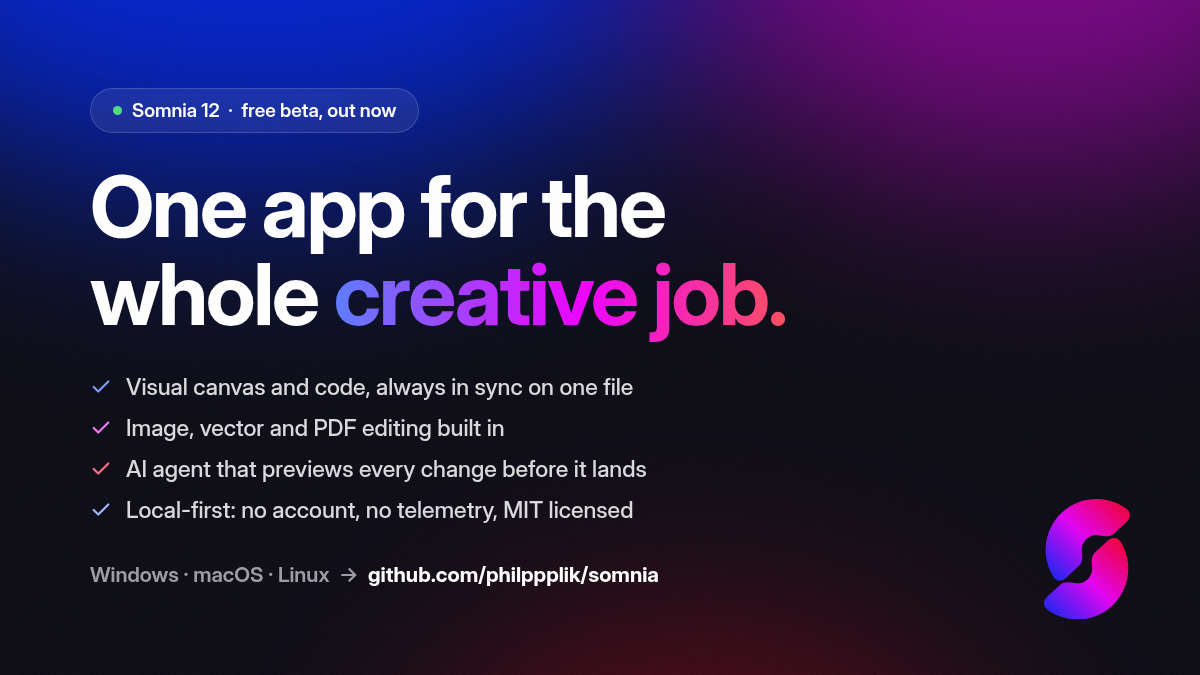
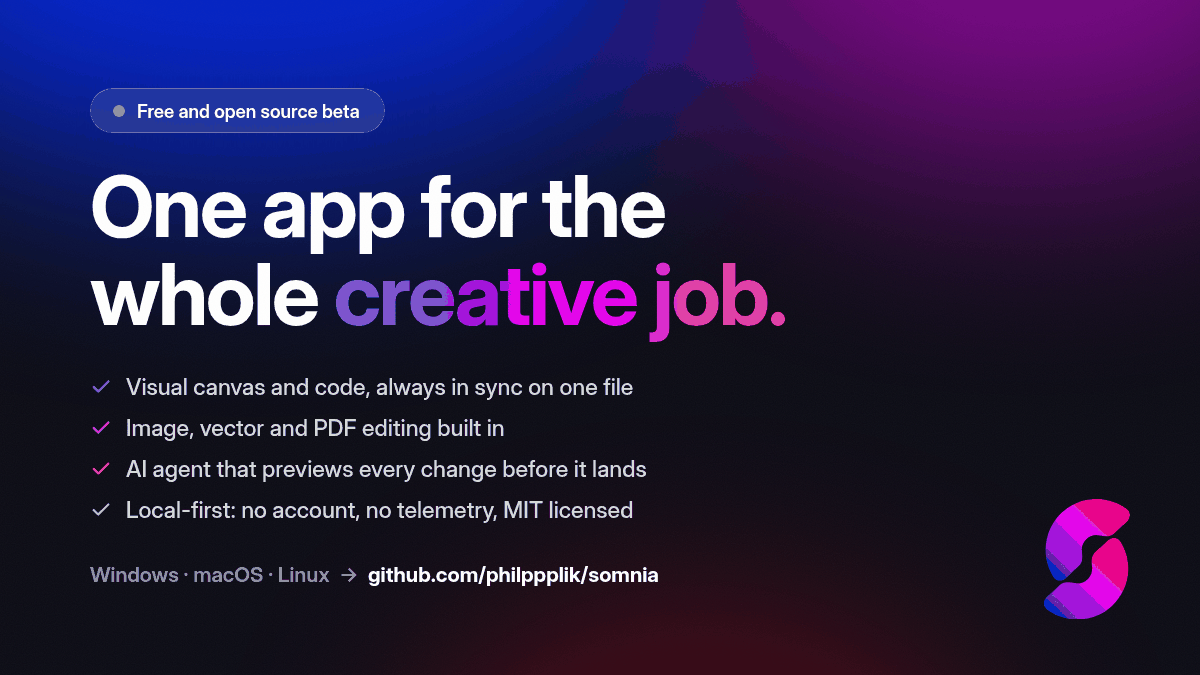
Update privacy text, add Impressum and neutral social card
Privacy and Datenschutz now cover the optional AI panel (OpenRouter, OpenAI, Claude, Ollama), collaboration, API key storage and the website's release request. Impressum added with a footer link. The social card no longer carries a version or 'out now'.

diff --git a/datenschutz/index.html b/datenschutz/index.html
@@ -22,7 +22,7 @@
 <meta property="og:image" content="https://somnia.philipp-paulik.de/assets/og/launch-card.png">
 <meta property="og:image:width" content="1200">
 <meta property="og:image:height" content="675">
-<meta property="og:image:alt" content="Somnia 12, free beta. One app for the whole creative job.">
+<meta property="og:image:alt" content="Somnia, free and open source beta. One app for the whole creative job.">
 <meta name="twitter:card" content="summary_large_image">
 <meta name="twitter:title" content="Datenschutzerklärung - Somnia">
 <meta name="twitter:description" content="Was Somnia mit deinen Daten macht.">
@@ -50,45 +50,60 @@
 <a class="btn btn-sm btn-star" href="https://github.com/philppplik/somnia" rel="noopener">Star on GitHub</a>
 </div>
 </header>
-<main id="main"><div class="wrap prose-page"><div class="prose"><p class="crumbs"><a href="../">Somnia</a> / Datenschutzerklärung</p><h1>Datenschutzerklärung.</h1><p class="lead">Was Somnia mit deinen Daten macht, in klaren Worten. Kurz: Sie bleiben auf deinem Rechner.</p>
-<p class="note"><strong>Kurz gesagt.</strong> Somnia arbeitet mit Dateien auf deinem eigenen Rechner. Es gibt kein Konto, keine Analyse und kein Tracking, und der Entwickler erhält weder deine Dateien noch Daten darüber, wie du die App nutzt. Die einzige Netzwerkanfrage der App ist eine optionale Prüfung auf neue Versionen bei GitHub.</p>
-<p>Stand: 5. Oktober 2026.</p>
+<main id="main"><div class="wrap prose-page"><div class="prose"><p class="crumbs"><a href="../">Somnia</a> / Datenschutzerklärung</p><h1>Datenschutzerklärung.</h1><p class="lead">Was Somnia mit deinen Daten macht, in einfachen Worten. Kurz: Sie bleiben auf deinem Computer.</p>
+<p><strong>Kurzfassung.</strong> Somnia arbeitet mit Dateien auf deinem eigenen Computer. Es gibt kein Konto, keine Analyse und kein Tracking, und der Entwickler erhält weder deine Dateien noch Daten darüber, wie du die App nutzt. Die App stellt nur Netzwerkanfragen, die du selbst veranlasst: die Update-Prüfung, einen KI-Anbieter, den du einschaltest, und Kollaborations-Hosts, die du einrichtest.</p>
+<p>Stand: 17. Oktober 2026. Somnia ist in der Beta. Diese Seite beschreibt die App so, wie sie heute gebaut ist, und wird angepasst, wenn sich die App ändert.</p>
 
 <h2>Verantwortlicher</h2>
 <p>Somnia wird von Philipp Paulik entwickelt (der "Entwickler"). Kontakt für Datenschutzfragen: <a href="mailto:philipp.l.paulik@gmail.com">philipp.l.paulik@gmail.com</a>.</p>
 
-<h2>Was die Somnia-Desktop-App mit deinen Daten macht</h2>
-<h3>Deine Projektdateien bleiben auf deinem Gerät</h3>
-<p>Somnia öffnet einen Ordner oder eine Datei, die du auswählst, und speichert Änderungen an derselben Stelle auf deiner Festplatte. HTML, CSS, JavaScript und Bilder werden nirgendwohin hochgeladen. Der Entwickler betreibt keinen Server, der sie empfangen würde.</p>
-<h3>Lokal von der App gespeicherte Daten</h3>
+<h2>Deine Dateien bleiben auf deinem Gerät</h2>
+<p>Somnia öffnet einen Ordner oder eine Datei, die du auswählst, und speichert Änderungen an derselben Stelle auf deiner Festplatte. Deine Dateien werden nicht an den Entwickler hochgeladen. Der Entwickler betreibt keinen Server, der sie empfängt.</p>
+
+<h2>Lokal gespeicherte Daten</h2>
+<p><strong>Wiederherstellungs-Schnappschüsse.</strong> Beim Bearbeiten hält die App ungespeicherte Änderungen in einem lokalen Wiederherstellungsordner im App-Datenordner deines Benutzerprofils, damit Arbeit nach einem Absturz wiederhergestellt werden kann. Nach dem Speichern wird der Schnappschuss entfernt.</p>
+<p><strong>Einstellungen und gespeicherte Elemente.</strong> Layout, Design, Tastenkürzel, deine Komponentenbibliothek und deine Erweiterungsauswahl liegen im lokalen Speicher der App auf deinem Gerät. Wenn du das KI-Panel nutzt, werden auch der gewählte Anbieter, der Modellname, deine eigenen Prompts und der Nachweis deiner Cloud-Einwilligung (Version und Zeitpunkt) auf deinem Gerät gespeichert.</p>
+<p><strong>API-Schlüssel.</strong> Wenn du einen API-Schlüssel für einen KI-Anbieter hinzufügst, speichert ihn die Desktop-App im Anmeldedatenspeicher deines Betriebssystems, nicht in einer Klartext-Einstellungsdatei.</p>
+<p>Nichts davon wird an den Entwickler gesendet. Zum Entfernen lösche deine Projektordner und deinstalliere die App. Die Deinstallation entfernt die Programmdateien. Den lokalen App-Datenordner kannst du von Hand löschen, wenn du auch Schnappschüsse und Einstellungen entfernen möchtest.</p>
+
+<h2>Keine Konten, keine Analyse, kein Tracking</h2>
+<p>Somnia hat keine Anmeldung, keine Telemetrie, keine Absturzberichte, keine Werbung und keine Analyse durch Dritte. Der Entwickler erhebt über die App keine personenbezogenen Daten über dich.</p>
+
+<h2>Update-Prüfung</h2>
+<p>Beim Start kann die App bei GitHub nachfragen, ob eine neuere Version existiert, indem sie die öffentliche Release-Liste von github.com/philppplik/somnia über api.github.com abruft. Die Anfrage enthält kein Konto, keine Projektdaten und keine Kennung der App. Wie bei jeder Webanfrage erhält GitHub deine IP-Adresse und übliche technische Anfragedaten und verarbeitet sie nach der <a href="https://docs.github.com/de/site-policy/privacy-policies/github-general-privacy-statement" rel="noopener">GitHub-Datenschutzerklärung</a>. Du kannst diese Prüfung in den Einstellungen ausschalten. Wenn du ein Update installierst, lädt die App es auf dieselbe Weise von GitHub herunter.</p>
+<p>Wenn du Somnia aus dem Microsoft Store installierst, übernimmt der Microsoft Store die App-Updates und seine eigene Datenerhebung nach der <a href="https://privacy.microsoft.com/de-de/privacystatement" rel="noopener">Microsoft-Datenschutzerklärung</a>. Der Entwickler erhält diese Daten nicht.</p>
+
+<h2>Somnia Agent und KI-Dienste (optional, Beta)</h2>
+<p>Das KI-Panel ist optional und noch in der Beta. Es nutzt künstliche Intelligenz, um Eingaben zu beantworten und Änderungen vorzuschlagen. KI kann Fehler machen. Prüfe erzeugte Inhalte und kontrolliere Änderungen, bevor du sie übernimmst oder veröffentlichst. KI-Antworten und vorgeschlagene Änderungen sind in der App gekennzeichnet.</p>
+<p>Du bringst deinen eigenen Anbieter mit. Das Panel kann sich mit OpenRouter, OpenAI, Claude (Anthropic) und Ollama verbinden. An keinen von ihnen wird etwas gesendet, bevor du einen einrichtest.</p>
+<p><strong>Cloud-Anbieter.</strong> Vor der ersten Cloud-Anfrage bittet Somnia dich um ausdrückliche Erlaubnis, deine Eingabe, den relevanten Gesprächskontext und ausgewählte Projektinhalte an den von dir gewählten Anbieter zu senden. Das gilt für OpenRouter, OpenAI und Claude sowie für jeden Ollama-Server, der nicht auf deinem eigenen Rechner läuft. OpenRouter kann deine Inhalte an eigene Modellanbieter weiterleiten. Die Verarbeitung kann außerhalb der EU stattfinden. Speicherdauer, Training, Löschung und Übermittlung unterscheiden sich je nach Dienst, Kontotyp und Einstellungen und liegen beim Anbieter, nicht bei Somnia. Ein ChatGPT- oder Claude-Abonnement bedeutet nicht, dass die Verarbeitung lokal bleibt. Lies die Datenschutzhinweise deines Anbieters:</p>
 <ul>
-<li><strong>Wiederherstellungs-Snapshots.</strong> Beim Bearbeiten legt die App ungespeicherte Änderungen in einem lokalen Wiederherstellungsordner (<code>recovery-v1</code>) im App-Datenordner deines Windows-Benutzerprofils ab, damit Arbeit nach einem Absturz wiederhergestellt werden kann. Ein Snapshot wird nach dem Speichern der Datei entfernt.</li>
-<li><strong>Einstellungen und gespeicherte Elemente.</strong> Layout, Theme, Tastenkürzel, deine Komponenten-Bibliothek und deine Erweiterungsauswahl liegen im lokalen Speicher der App auf deinem Gerät.</li>
+<li><a href="https://openai.com/policies/eu-privacy-policy/" rel="noopener">OpenAI</a></li>
+<li><a href="https://privacy.claude.com/en/" rel="noopener">Anthropic Privacy Center</a></li>
+<li><a href="https://openrouter.ai/privacy" rel="noopener">OpenRouter</a> und dessen <a href="https://openrouter.ai/docs/guides/privacy/data-collection" rel="noopener">Hinweise zur Datenerhebung</a></li>
 </ul>
-<p>Nichts davon wird an den Entwickler oder an andere gesendet. Zum Entfernen lösche deine Projektordner und deinstalliere die App. Die Deinstallation entfernt die Programmdateien; den lokalen App-Datenordner kannst du von Hand löschen, wenn du auch Wiederherstellungs-Snapshots und Einstellungen entfernen möchtest.</p>
+<p>Prüfe den Kontext vor dem Senden. Füge keine Passwörter, API-Schlüssel oder personenbezogenen Daten ein, die du nicht weitergeben darfst. Deine Einwilligung erlaubt dir nicht, Daten anderer Personen offenzulegen.</p>
+<p><strong>Einwilligung widerrufen.</strong> Du kannst die Cloud-Einwilligung in den Einstellungen unter KI-Datenschutz widerrufen. Der Widerruf blockiert neue Cloud-Anfragen und bricht laufende in Somnia ab. Er löscht keine Inhalte, die ein Anbieter bereits erhalten hat, und garantiert nicht, dass der Anbieter die Verarbeitung beendet. Wende dich dafür an den Anbieter. Du kannst den Editor ohne Cloud-KI weiter nutzen. Das Löschen eines gespeicherten Schlüssels in der App entfernt nur die Kopie von Somnia. Der Schlüssel wird dadurch beim Anbieter nicht widerrufen.</p>
+<p><strong>Lokale Verarbeitung.</strong> Du kannst Ollama auf deinem eigenen Gerät mit einem lokalen Modell nutzen. Somnia behandelt einen lokalen Ollama-Server nur dann als lokal, wenn er auf deinem Rechner läuft und lokale Modellgewichte meldet. Ein lokaler Server kann eigene Protokolleinstellungen haben.</p>
 
-<h3>Keine Konten, keine Analyse, kein Tracking</h3>
-<p>Somnia hat keine Anmeldung, keine Telemetrie, keine Absturzberichte, keine Werbung und keine Analyse durch Dritte. Die App erhebt keine personenbezogenen Daten über dich.</p>
+<h2>Zusammenarbeit</h2>
+<p>Die Echtzeit-Zusammenarbeit ist optional und beginnt nur, wenn du eine Sitzung startest oder ihr beitrittst. Sitzungen laufen über einen Host deiner Wahl: einen Host auf deinem eigenen Computer oder im lokalen Netzwerk oder ein Relay, das du selbst betreibst. Der Entwickler betreibt für dich keinen Kollaborationsserver. Die Inhalte werden von den Apps Ende-zu-Ende verschlüsselt, und das Relay leitet verschlüsselte Daten weiter, ohne sie zu speichern. Der gewählte Host und die Personen, die du einlädst, sehen, was du in der Sitzung teilst. Deine IP-Adresse ist für den Host und die Teilnehmer sichtbar, wie bei jeder Netzwerkverbindung.</p>
 
-<h3>Die einzige Netzwerkanfrage: Update-Prüfung</h3>
-<p>Beim Start kann die App bei GitHub nachfragen, ob eine neuere Version existiert. Dafür ruft sie die öffentliche Release-Liste von <code>github.com/philppplik/somnia</code> über <code>api.github.com</code> ab. Die Anfrage enthält kein Konto, keine Projektdaten und keine Kennung aus der App. Wie bei jeder Webanfrage erhält GitHub deine IP-Adresse und übliche technische Anfragedaten und verarbeitet sie nach der <a href="https://docs.github.com/de/site-policy/privacy-policies/github-general-privacy-statement" rel="noopener">GitHub-Datenschutzerklärung</a>. Du kannst diese Prüfung in den Einstellungen ausschalten. Wenn du ein Update installierst, lädt die App es auf dieselbe Weise von GitHub herunter.</p>
-<p>Installierst du Somnia aus dem Microsoft Store, übernimmt der Microsoft Store die App-Updates und seine eigene Datenerhebung nach der <a href="https://privacy.microsoft.com/de-de/privacystatement" rel="noopener">Microsoft-Datenschutzerklärung</a>. Der Entwickler erhält diese Daten nicht.</p>
-
-<h3>Vorschau und Erweiterungen</h3>
-<p>Die Live-Vorschau läuft in einem isolierten Frame ohne Netzwerkzugriff. Skripte deines Projekts laufen darin erst, nachdem du das für ein Projekt erlaubt hast. Erweiterungen laufen lokal und können nach dem heutigen Stand der App nicht auf das Netzwerk zugreifen.</p>
+<h2>Vorschau und Erweiterungen</h2>
+<p>Die Live-Vorschau läuft in einem isolierten Frame ohne Netzwerkzugriff. Skripte aus deinem Projekt laufen darin nur, wenn du das für ein Projekt erlaubst. Erweiterungen laufen lokal in einem eingeschränkten Worker mit einem deklarierten Satz an Berechtigungen, und der Netzwerkzugriff wird ihnen nach bestem Bemühen entzogen. Das ist eine Schutzmaßnahme, keine Garantie.</p>
 
 <h2>Diese Website</h2>
-<p>Diese Seite (somnia.philipp-paulik.de) ist eine statische Seite auf GitHub Pages. Sie nutzt keine Cookies, keine Analyse und keine Skripte von Dritten. GitHub als Hoster kann technische Daten wie deine IP-Adresse in Server-Logs verarbeiten. Der Browser-Prototyp auf der Startseite läuft komplett in deinem Browser; Dateien, die du darin öffnest, werden nicht hochgeladen.</p>
+<p>Diese Seite (somnia.philipp-paulik.de) ist eine statische Seite auf GitHub Pages. Sie verwendet keine Cookies, keine Analyse und keine Skripte von Dritten. Der Download-Bereich ruft in deinem Browser die öffentliche Release-Liste von api.github.com ab, dabei erhält GitHub deine IP-Adresse wie oben beschrieben. GitHub kann als Hoster außerdem technische Daten wie deine IP-Adresse in Server-Logs verarbeiten.</p>
 
 <h2>Deine Rechte</h2>
-<p>Da der Entwickler über die App keine personenbezogenen Daten erhebt, gibt es auf seiner Seite normalerweise nichts zu beauskunften, zu berichtigen oder zu löschen. Wenn du in der EU bist und glaubst, dass der Entwickler Daten über dich hat, schreib an die Adresse oben. Du hast außerdem das Recht, dich bei deiner Datenschutz-Aufsichtsbehörde zu beschweren.</p>
+<p>Da der Entwickler über die App keine personenbezogenen Daten erhebt, gibt es bei ihm normalerweise nichts zur Auskunft, Berichtigung oder Löschung. Wenn du in der EU oder im Vereinigten Königreich bist und glaubst, dass der Entwickler Daten über dich hält, schreib an die Adresse oben, du erhältst eine Antwort. Du hast außerdem das Recht, dich bei deiner zuständigen Datenschutzaufsichtsbehörde zu beschweren. Für Daten, die ein KI-Anbieter, GitHub oder Microsoft verarbeitet, wende dich an das jeweilige Unternehmen.</p>
 
 <h2>Kinder</h2>
-<p>Somnia ist ein allgemeines Werkzeug für Webdesign und richtet sich nicht an Kinder. Es erhebt keine Daten von irgendjemandem.</p>
+<p>Somnia ist ein allgemeines kreatives Werkzeug und richtet sich nicht an Kinder. Der Entwickler erhebt darüber keine Daten von irgendjemandem.</p>
 
 <h2>Änderungen</h2>
-<p>Wenn die App Daten künftig anders behandelt, zum Beispiel durch eine optionale Online-Funktion, wird diese Seite vor dem Release aktualisiert und die Änderung hier aufgeführt. Die aktuelle Fassung findest du immer unter <a href="https://somnia.philipp-paulik.de/datenschutz/">somnia.philipp-paulik.de/datenschutz/</a>.</p>
-<p><a href="../privacy/">English version</a></p>
+<p>Wenn die App Daten künftig anders behandelt, wird diese Seite vor dem Release angepasst und die Änderung hier vermerkt. Die aktuelle Fassung findest du immer unter somnia.philipp-paulik.de/datenschutz/. Eine englische Fassung gibt es unter <a href="../privacy/">/privacy/</a>.</p>
+
 </div></div></main><footer class="site-footer">
 <div class="wrap">
 <div class="foot">
@@ -112,6 +127,7 @@
 <li><a href="https://github.com/philppplik/somnia/blob/main/LICENSE" rel="noopener">MIT license</a></li>
 <li><a href="../privacy/">Privacy policy</a></li>
 <li><a href="../datenschutz/">Datenschutzerkl&auml;rung</a></li>
+<li><a href="../impressum/">Impressum</a></li>
 <li><a href="https://github.com/philppplik/somnia/blob/main/SECURITY.md" rel="noopener">Security policy</a></li>
 </ul>
 </div>

diff --git a/privacy/index.html b/privacy/index.html
@@ -22,7 +22,7 @@
 <meta property="og:image" content="https://somnia.philipp-paulik.de/assets/og/launch-card.png">
 <meta property="og:image:width" content="1200">
 <meta property="og:image:height" content="675">
-<meta property="og:image:alt" content="Somnia 12, free beta. One app for the whole creative job.">
+<meta property="og:image:alt" content="Somnia, free and open source beta. One app for the whole creative job.">
 <meta name="twitter:card" content="summary_large_image">
 <meta name="twitter:title" content="Privacy policy - Somnia">
 <meta name="twitter:description" content="What Somnia does with your data, in plain words.">
@@ -51,44 +51,59 @@
 </div>
 </header>
 <main id="main"><div class="wrap prose-page"><div class="prose"><p class="crumbs"><a href="../">Somnia</a> / Privacy policy</p><h1>Privacy policy.</h1><p class="lead">What Somnia does with your data, in plain words. Short answer: it stays on your computer.</p>
-<p class="note"><strong>Short version.</strong> Somnia works on files on your own computer. It has no account, no analytics and no tracking, and the developer does not receive your files or any data about how you use the app. The only network request the app makes is an optional check for new versions on GitHub.</p>
-<p>Last updated: October 5, 2026.</p>
+<p><strong>Short version.</strong> Somnia works on files on your own computer. It has no account, no analytics and no tracking, and the developer does not receive your files or any data about how you use the app. The app makes network requests only for things you choose: the update check, an AI provider you turn on, and collaboration hosts you set up.</p>
+<p>Last updated: October 17, 2026. Somnia is in beta. This page describes the app as it is built today, and it will change when the app does.</p>
 
 <h2>Who is responsible</h2>
 <p>Somnia is developed by Philipp Paulik (the "developer"). Contact for privacy questions: <a href="mailto:philipp.l.paulik@gmail.com">philipp.l.paulik@gmail.com</a>.</p>
 
-<h2>What the Somnia desktop app does with your data</h2>
-<h3>Your project files stay on your device</h3>
-<p>Somnia opens a folder or file that you choose and saves changes back to the same place on your disk. Your HTML, CSS, JavaScript and images are not uploaded anywhere. The developer has no server that receives them.</p>
-<h3>Data stored locally by the app</h3>
-<ul>
-<li><strong>Recovery snapshots.</strong> While you edit, the app keeps unsaved changes in a local recovery folder (<code>recovery-v1</code>) inside the app data folder of your Windows user profile, so work can be restored after a crash. A snapshot is removed after you save the file.</li>
-<li><strong>Settings and saved items.</strong> Layout, theme, keyboard shortcuts, your saved component library and your extension choices are kept in the app's local storage on your device.</li>
-</ul>
-<p>None of this is sent to the developer or to anyone else. To remove it, delete your project folders and uninstall the app. Uninstalling the app removes its program files; the local app data folder can be deleted by hand if you want to remove recovery snapshots and settings as well.</p>
+<h2>Your files stay on your device</h2>
+<p>Somnia opens a folder or file that you choose and saves changes back to the same place on your disk. Your files are not uploaded to the developer. The developer has no server that receives them.</p>
 
-<h3>No accounts, no analytics, no tracking</h3>
-<p>Somnia has no sign-in, no telemetry, no crash reporting, no advertising and no third-party analytics. The app does not collect personal data about you.</p>
+<h2>Data stored locally by the app</h2>
+<p><strong>Recovery snapshots.</strong> While you edit, the app keeps unsaved changes in a local recovery folder inside the app data folder of your user profile, so work can be restored after a crash. A snapshot is removed after you save the file.</p>
+<p><strong>Settings and saved items.</strong> Layout, theme, keyboard shortcuts, your saved component library and your extension choices are kept in the app's local storage on your device. If you use the AI panel, the chosen provider, the model name, your custom prompts and your cloud consent record (version and time) are stored on your device too.</p>
+<p><strong>API keys.</strong> If you add an API key for an AI provider, the desktop app stores it in your operating system's credential store, not in a plain settings file.</p>
+<p>None of this is sent to the developer. To remove it, delete your project folders and uninstall the app. Uninstalling removes the program files. The local app data folder can be deleted by hand if you also want to remove recovery snapshots and settings.</p>
 
-<h3>The only network request: update check</h3>
-<p>When the app starts, it can ask GitHub whether a newer release exists by requesting the public release list of <code>github.com/philppplik/somnia</code> from <code>api.github.com</code>. The request carries no account, no project data and no identifier from the app. As with any web request, GitHub receives your IP address and standard technical request data, and handles it under the <a href="https://docs.github.com/en/site-policy/privacy-policies/github-general-privacy-statement" rel="noopener">GitHub Privacy Statement</a>. You can turn this check off in Settings. If you choose to install an update, the app downloads it from GitHub the same way.</p>
+<h2>No accounts, no analytics, no tracking</h2>
+<p>Somnia has no sign-in, no telemetry, no crash reporting, no advertising and no third-party analytics. The developer does not collect personal data about you through the app.</p>
+
+<h2>Update check</h2>
+<p>When the app starts, it can ask GitHub whether a newer release exists by requesting the public release list of github.com/philppplik/somnia from api.github.com. The request carries no account, no project data and no identifier from the app. As with any web request, GitHub receives your IP address and standard technical request data, and handles it under the <a href="https://docs.github.com/en/site-policy/privacy-policies/github-general-privacy-statement" rel="noopener">GitHub Privacy Statement</a>. You can turn this check off in Settings. If you choose to install an update, the app downloads it from GitHub the same way.</p>
 <p>If you install Somnia from the Microsoft Store, the Microsoft Store handles app updates and its own data collection under the <a href="https://privacy.microsoft.com/privacystatement" rel="noopener">Microsoft Privacy Statement</a>. The developer does not receive that data.</p>
 
-<h3>Preview and extensions</h3>
-<p>The live preview runs in an isolated frame that has no network access. Scripts from your project run in it only after you allow that for a project. Extensions run locally and, as the app is built today, cannot reach the network.</p>
+<h2>Somnia Agent and AI services (optional, beta)</h2>
+<p>The AI panel is optional and still in beta. It uses artificial intelligence to answer prompts and propose changes. AI can make mistakes. Check generated content and review changes before you apply or publish them. AI responses and suggested changes are labelled in the app.</p>
+<p>You bring your own provider. The panel can connect to OpenRouter, OpenAI, Claude (Anthropic) and Ollama. Nothing is sent to any of them until you set one up.</p>
+<p><strong>Cloud providers.</strong> Before the first cloud request, Somnia asks you to explicitly allow sending your prompt, relevant conversation context and selected project content to the provider you choose. This applies to OpenRouter, OpenAI and Claude, and to any Ollama server that is not on your own machine. OpenRouter may route your content to its own model providers. Processing may take place outside the EU. Retention, training, deletion and transfer practices differ by service, account type and settings, and they are the provider's, not Somnia's. A ChatGPT or Claude subscription does not mean processing stays local. Read your provider's privacy information:</p>
+<ul>
+<li><a href="https://openai.com/policies/eu-privacy-policy/" rel="noopener">OpenAI</a></li>
+<li><a href="https://privacy.claude.com/en/" rel="noopener">Anthropic Privacy Center</a></li>
+<li><a href="https://openrouter.ai/privacy" rel="noopener">OpenRouter</a>, and its <a href="https://openrouter.ai/docs/guides/privacy/data-collection" rel="noopener">data collection guidance</a></li>
+</ul>
+<p>Review the context before sending. Do not include passwords, API keys or personal data you do not have permission to share. Your opt-in does not give you permission to disclose another person's data.</p>
+<p><strong>Withdrawing consent.</strong> You can withdraw cloud consent in Settings under AI privacy. Withdrawal blocks new cloud requests and cancels active ones in Somnia. It does not erase content a provider has already received, and it does not guarantee the provider stops processing it. Contact the provider for its processing. You can keep using the editor without cloud AI. Deleting a saved key in the app removes Somnia's copy only. It does not revoke the key at the provider.</p>
+<p><strong>Local processing.</strong> You can use Ollama on your own device with a local model. Somnia treats a local Ollama server as local only when it runs on your machine and reports local model weights. A local server may have its own logging settings.</p>
+
+<h2>Collaboration</h2>
+<p>Real-time collaboration is optional and starts only when you start or join a session. Sessions run through a host you choose: a host on your own computer or local network, or a relay you run yourself. The developer does not operate a collaboration server for you. Content is end-to-end encrypted by the apps, and the relay forwards encrypted data without storing it. The host you choose and the people you invite can see what you share in the session. Your IP address is visible to the host and to peers, as with any network connection.</p>
+
+<h2>Preview and extensions</h2>
+<p>The live preview runs in an isolated frame that has no network access. Scripts from your project run in it only after you allow that for a project. Extensions run locally in a restricted worker with a declared set of permissions, and network access is removed from them on a best-effort basis. That is a safeguard, not a guarantee.</p>
 
 <h2>This website</h2>
-<p>This site (somnia.philipp-paulik.de) is a static site hosted on GitHub Pages. It does not use cookies, analytics or third-party scripts. GitHub, as the host, may process technical data such as your IP address in server logs. The browser prototype on the home page runs entirely in your browser; the files you open in it are not uploaded.</p>
+<p>This site (somnia.philipp-paulik.de) is a static site hosted on GitHub Pages. It does not use cookies, analytics or third-party scripts. The download section requests the public release list from api.github.com in your browser, so GitHub receives your IP address as described above. GitHub, as the host, may also process technical data such as your IP address in server logs.</p>
 
 <h2>Your rights</h2>
-<p>Because the developer does not collect personal data through the app, there is normally nothing to access, correct or delete on his side. If you are in the EU or UK and think the developer holds data about you, write to the address above and you will get an answer. You also have the right to complain to your local data protection authority.</p>
+<p>Because the developer does not collect personal data through the app, there is normally nothing to access, correct or delete on his side. If you are in the EU or UK and think the developer holds data about you, write to the address above and you will get an answer. You also have the right to complain to your local data protection authority. For data that an AI provider, GitHub or Microsoft processes, contact that company.</p>
 
 <h2>Children</h2>
-<p>Somnia is a general-purpose web design tool and is not directed at children. It does not collect data from anyone.</p>
+<p>Somnia is a general-purpose creative tool and is not directed at children. The developer does not collect data from anyone through it.</p>
 
 <h2>Changes</h2>
-<p>If the app starts to handle data differently, for example by adding an optional online feature, this page will be updated before that release, and the change will be listed here. The current version of this page is always at <a href="https://somnia.philipp-paulik.de/privacy/">somnia.philipp-paulik.de/privacy/</a>.</p>
-<p><a href="../datenschutz/">Deutsche Fassung</a></p>
+<p>If the app starts to handle data differently, this page will be updated before that release and the change will be listed here. The current version is always at somnia.philipp-paulik.de/privacy/. A German version is at <a href="../datenschutz/">/datenschutz/</a>.</p>
+
 </div></div></main><footer class="site-footer">
 <div class="wrap">
 <div class="foot">
@@ -112,6 +127,7 @@
 <li><a href="https://github.com/philppplik/somnia/blob/main/LICENSE" rel="noopener">MIT license</a></li>
 <li><a href="../privacy/">Privacy policy</a></li>
 <li><a href="../datenschutz/">Datenschutzerkl&auml;rung</a></li>
+<li><a href="../impressum/">Impressum</a></li>
 <li><a href="https://github.com/philppplik/somnia/blob/main/SECURITY.md" rel="noopener">Security policy</a></li>
 </ul>
 </div>

diff --git a/impressum/index.html b/impressum/index.html
@@ -1,0 +1,96 @@
+<!DOCTYPE html>
+<html lang="de">
+<head>
+<meta charset="utf-8">
+<meta name="viewport" content="width=device-width, initial-scale=1">
+<title>Impressum - Somnia</title>
+<meta name="description" content="Angaben gemäß § 5 DDG.">
+<link rel="canonical" href="https://somnia.philipp-paulik.de/impressum/">
+<meta name="theme-color" content="#FAFAFD" media="(prefers-color-scheme: light)">
+<meta name="theme-color" content="#07070D" media="(prefers-color-scheme: dark)">
+<meta name="color-scheme" content="light dark">
+<link rel="icon" href="../favicon.svg" type="image/svg+xml">
+<link rel="icon" href="../assets/icons/favicon-32.png" sizes="32x32" type="image/png">
+<link rel="alternate icon" href="../favicon.ico" sizes="48x48">
+<link rel="apple-touch-icon" href="../assets/icons/apple-touch-icon.png">
+<link rel="manifest" href="../site.webmanifest">
+<meta property="og:type" content="website">
+<meta property="og:site_name" content="Somnia">
+<meta property="og:title" content="Impressum - Somnia">
+<meta property="og:description" content="Angaben gemäß § 5 DDG.">
+<meta property="og:url" content="https://somnia.philipp-paulik.de/impressum/">
+<meta property="og:image" content="https://somnia.philipp-paulik.de/assets/og/launch-card.png">
+<meta property="og:image:width" content="1200">
+<meta property="og:image:height" content="675">
+<meta property="og:image:alt" content="Somnia, free and open source beta. One app for the whole creative job.">
+<meta name="twitter:card" content="summary_large_image">
+<meta name="twitter:title" content="Impressum - Somnia">
+<meta name="twitter:description" content="Angaben gemäß § 5 DDG.">
+<meta name="twitter:image" content="https://somnia.philipp-paulik.de/assets/og/launch-card.png">
+<link rel="preload" href="../assets/fonts/InterDisplay-Bold.woff2" as="font" type="font/woff2" crossorigin>
+<link rel="preload" href="../assets/fonts/Inter-Regular.woff2" as="font" type="font/woff2" crossorigin>
+<link rel="stylesheet" href="../assets/css/site.css">
+<script>document.documentElement.className+=" js"</script>
+</head>
+<body>
+<a class="skip" href="#main">Skip to content</a>
+<svg xmlns="http://www.w3.org/2000/svg" style="display:none" aria-hidden="true"><symbol id="i-code" viewBox="0 0 24 24" fill="none" stroke="currentColor" stroke-width="2" stroke-linecap="round" stroke-linejoin="round"><path d="M17.5 16c.875-1.4 2.924-3.222 4.5-4c-1.576-.778-3.625-2.6-4.5-4m-11 8c-.875-1.4-2.924-3.222-4.5-4c1.576-.778 3.625-2.6 4.5-4M14 4l-4 16"/></symbol><symbol id="i-doc" viewBox="0 0 24 24" fill="none" stroke="currentColor" stroke-width="2" stroke-linecap="round" stroke-linejoin="round"><path d="M9.476 2H7.5a3 3 0 0 0-3 3v14a3 3 0 0 0 3 3h9a3 3 0 0 0 3-3v-7M9.476 2C10.856 2 12 3.119 12 4.5V7a2.5 2.5 0 0 0 2.5 2.5H17a2.5 2.5 0 0 1 2.5 2.5M9.476 2C13.576 2 19.5 7.956 19.5 12M8.833 17.5H15.5M8.833 14h4.445"/></symbol><symbol id="i-sheet" viewBox="0 0 24 24" fill="none" stroke="currentColor" stroke-width="2" stroke-linecap="round" stroke-linejoin="round"><path d="M9 3H5a2 2 0 0 0-2 2v4m6-6h10a2 2 0 0 1 2 2v4M9 3v18m0 0h10a2 2 0 0 0 2-2V9M9 21H5a2 2 0 0 1-2-2V9m0 0h18"/></symbol><symbol id="i-slides" viewBox="0 0 24 24" fill="none" stroke="currentColor" stroke-width="2" stroke-linecap="round" stroke-linejoin="round"><path d="M2 3h20"/><path d="M21 3v11a2 2 0 0 1-2 2H5a2 2 0 0 1-2-2V3"/><path d="m7 21 5-5 5 5"/></symbol><symbol id="i-sound" viewBox="0 0 24 24" fill="none" stroke="currentColor" stroke-width="2" stroke-linecap="round" stroke-linejoin="round"><path d="M2 8a2 2 0 0 1 2 2v5a2 2 0 1 0 4 0V4a2 2 0 1 1 4 0v16a2 2 0 1 0 4 0V10a2 2 0 1 1 4 0v4a2 2 0 0 0 2 2"/></symbol><symbol id="i-video" viewBox="0 0 24 24" fill="none" stroke="currentColor" stroke-width="2" stroke-linecap="round" stroke-linejoin="round"><path d="M17 3v4.225m0 0V12m0-4.775h4.5M17 12v4.718M17 12h5m-5 0H7m10 4.718V21m0-4.282h4.5M7 7.225H2.5m4.5 0V3m0 4.225V12m0 0H2m5 0v4.718m0 0H2.5m4.5 0V21M2 8a6 6 0 0 1 6-6h8a6 6 0 0 1 6 6v8a6 6 0 0 1-6 6H8a6 6 0 0 1-6-6z"/></symbol><symbol id="i-photos" viewBox="0 0 24 24" fill="none" stroke="currentColor" stroke-width="2" stroke-linecap="round" stroke-linejoin="round"><path d="M14.31 8c2.655 2.878 4.47 6.26 5.74 9.94M9.69 8a33.4 33.4 0 0 1 11.48 0M7.38 12a36.5 36.5 0 0 1 5.74-9.94M9.69 16c-2.736-2.814-4.58-6.214-5.74-9.94M14.311 16A33.5 33.5 0 0 1 2.83 16m13.791-4c-1.367 3.632-3.365 6.89-5.74 9.94M22 12a10 10 0 1 1-20.001 0A10 10 0 0 1 22 12"/></symbol><symbol id="i-vector" viewBox="0 0 24 24" fill="none" stroke="currentColor" stroke-width="2" stroke-linecap="round" stroke-linejoin="round"><path d="M8.622 20.655a2.88 2.88 0 0 1-2.038.845H2.5v-4.058c0-.764.304-1.497.844-2.038m5.278 5.25L19.15 10.122M8.622 20.654a10.97 10.97 0 0 0-5.278-5.25m0 0l10.539-10.55m5.267 5.268l1.509-1.507a2.885 2.885 0 0 0 0-4.08l-1.189-1.19a2.885 2.885 0 0 0-4.082.002l-1.505 1.507m5.267 5.268a10.98 10.98 0 0 0-5.267-5.268"/></symbol><symbol id="i-design" viewBox="0 0 24 24" fill="none" stroke="currentColor" stroke-width="2" stroke-linecap="round" stroke-linejoin="round"><rect width="18" height="7" x="3" y="3" rx="1"/><rect width="9" height="7" x="3" y="14" rx="1"/><rect width="5" height="7" x="16" y="14" rx="1"/></symbol><symbol id="i-sparkle" viewBox="0 0 24 24" fill="none" stroke="currentColor" stroke-width="2" stroke-linecap="round" stroke-linejoin="round"><path d="M15.078 22c1.248-5.166 2.762-6.777 6.922-8.182c-4.371-1.476-5.733-3.267-6.922-8.181c-1.25 5.165-2.765 6.775-6.925 8.18c4.367 1.475 5.737 3.279 6.924 8.183M5.846 11.091C6.414 8.402 7.514 7.19 9.69 6.546C7.514 5.902 6.414 4.689 5.847 2C5.302 4.572 4.274 5.872 2 6.544c2.177.645 3.277 1.858 3.846 4.547"/></symbol><symbol id="i-download" viewBox="0 0 24 24" fill="none" stroke="currentColor" stroke-width="2" stroke-linecap="round" stroke-linejoin="round"><path d="M3 17.005C3 19.203 4.58 22 7.375 22h9.25C19.422 22 21 19.2 21 17M12 2v15m6.5-6.094a12.56 12.56 0 0 0-5.276 4.334L12 17l-1.224-1.76A12.56 12.56 0 0 0 5.5 10.906"/></symbol><symbol id="i-check" viewBox="0 0 24 24" fill="none" stroke="currentColor" stroke-width="2" stroke-linecap="round" stroke-linejoin="round"><path d="M21 6c-5.097 2.22-9.297 6.137-11.907 11.108L8.625 18l-.485-.862A9.35 9.35 0 0 0 3 12.858"/></symbol></svg>
+<header class="site-header">
+<div class="wrap bar">
+<a class="brand" href="../" aria-label="Somnia, home"><svg class="" viewBox="0 0 287 402" fill="none" aria-hidden="true" focusable="false"><defs><linearGradient id="gm1" x1="20" y1="390" x2="270" y2="10" gradientUnits="userSpaceOnUse"><stop stop-color="#002AFF"/><stop offset=".52" stop-color="#EE00FF"/><stop offset="1" stop-color="#FF001E"/></linearGradient></defs><path d="M9.41951 327.164C-2.74004 338.418 -3.60151 357.658 9.61812 367.646C37.0692 388.386 70.3983 400.432 105.25 401.78C150.171 403.516 193.941 387.337 226.933 356.801C259.925 326.265 279.435 283.874 281.171 238.954C282.518 204.102 273.081 169.942 254.522 140.972C245.585 127.021 226.335 126.394 214.176 137.649L169.73 178.786C157.571 190.04 158.091 209.46 160.3 225.881C160.673 228.651 160.81 231.466 160.7 234.297C160.199 247.266 154.566 259.506 145.04 268.322C135.515 277.139 122.877 281.81 109.907 281.309C107.076 281.199 104.28 280.845 101.547 280.26C85.3463 276.789 66.0244 274.772 53.8649 286.027L9.41951 327.164Z" fill="url(#gm1)"/><path d="M277.27 74.7428C289.429 63.4883 290.291 44.2481 277.071 34.2602C249.62 13.5199 216.291 1.47393 181.439 0.126645C136.518 -1.60988 92.7478 14.5694 59.7562 45.1051C26.7646 75.6409 7.25449 118.032 5.51796 162.953C4.17067 197.804 13.6077 231.964 32.1669 260.934C41.1044 274.885 60.3537 275.512 72.5133 264.258L116.959 223.121C129.118 211.866 128.599 192.446 126.389 176.026C126.017 173.255 125.88 170.44 125.989 167.61C126.49 154.64 132.123 142.401 141.649 133.584C151.174 124.768 163.812 120.096 176.782 120.598C179.613 120.707 182.409 121.061 185.142 121.647C201.343 125.117 220.665 127.134 232.824 115.88L277.27 74.7428Z" fill="url(#gm1)"/></svg><span>Somnia</span></a>
+<button class="menu-btn" id="menu-btn" aria-expanded="false" aria-controls="site-nav">Menu</button>
+<nav class="nav" id="site-nav" aria-label="Main">
+<ul>
+<li><a href="../#studios">Studios</a></li>
+<li><a href="../#extensions">Extensions</a></li>
+<li><a href="../#docs">Docs</a></li>
+<li><a href="../#roadmap">Roadmap</a></li>
+</ul>
+</nav>
+<a class="btn btn-sm btn-star" href="https://github.com/philppplik/somnia" rel="noopener">Star on GitHub</a>
+</div>
+</header>
+<main id="main"><div class="wrap prose-page"><div class="prose"><p class="crumbs"><a href="../">Somnia</a> / Impressum</p><h1>Impressum.</h1><p class="lead">Angaben gemäß § 5 Digitale-Dienste-Gesetz (DDG).</p>
+<h2>Anbieter</h2>
+<p>Philipp Paulik<br>Mozartstraße 1<br>53819 Neunkirchen-Seelscheid<br>Deutschland</p>
+<h2>Kontakt</h2>
+<p>E-Mail: <a href="mailto:philipp.l.paulik@gmail.com">philipp.l.paulik@gmail.com</a></p>
+<h2>Urheberrecht</h2>
+<p>Die vom Betreiber dieser Seite erstellten Inhalte und Werke unterliegen dem deutschen Urheberrecht. Somnia selbst steht unter der MIT-Lizenz, den Lizenztext findest du im <a href="https://github.com/philppplik/somnia" rel="noopener">Repository auf GitHub</a>. Beiträge Dritter sind als solche gekennzeichnet.</p>
+<h2>Datenschutz</h2>
+<p>Informationen zum Datenschutz findest du in der <a href="../datenschutz/">Datenschutzerklärung</a>.</p>
+
+</div></div></main><footer class="site-footer">
+<div class="wrap">
+<div class="foot">
+<div>
+<a class="brand" href="../" aria-label="Somnia, home"><svg class="" viewBox="0 0 287 402" fill="none" aria-hidden="true" focusable="false"><defs><linearGradient id="gm2" x1="20" y1="390" x2="270" y2="10" gradientUnits="userSpaceOnUse"><stop stop-color="#002AFF"/><stop offset=".52" stop-color="#EE00FF"/><stop offset="1" stop-color="#FF001E"/></linearGradient></defs><path d="M9.41951 327.164C-2.74004 338.418 -3.60151 357.658 9.61812 367.646C37.0692 388.386 70.3983 400.432 105.25 401.78C150.171 403.516 193.941 387.337 226.933 356.801C259.925 326.265 279.435 283.874 281.171 238.954C282.518 204.102 273.081 169.942 254.522 140.972C245.585 127.021 226.335 126.394 214.176 137.649L169.73 178.786C157.571 190.04 158.091 209.46 160.3 225.881C160.673 228.651 160.81 231.466 160.7 234.297C160.199 247.266 154.566 259.506 145.04 268.322C135.515 277.139 122.877 281.81 109.907 281.309C107.076 281.199 104.28 280.845 101.547 280.26C85.3463 276.789 66.0244 274.772 53.8649 286.027L9.41951 327.164Z" fill="url(#gm2)"/><path d="M277.27 74.7428C289.429 63.4883 290.291 44.2481 277.071 34.2602C249.62 13.5199 216.291 1.47393 181.439 0.126645C136.518 -1.60988 92.7478 14.5694 59.7562 45.1051C26.7646 75.6409 7.25449 118.032 5.51796 162.953C4.17067 197.804 13.6077 231.964 32.1669 260.934C41.1044 274.885 60.3537 275.512 72.5133 264.258L116.959 223.121C129.118 211.866 128.599 192.446 126.389 176.026C126.017 173.255 125.88 170.44 125.989 167.61C126.49 154.64 132.123 142.401 141.649 133.584C151.174 124.768 163.812 120.096 176.782 120.598C179.613 120.707 182.409 121.061 185.142 121.647C201.343 125.117 220.665 127.134 232.824 115.88L277.27 74.7428Z" fill="url(#gm2)"/></svg><span>Somnia</span></a>
+<p style="margin-top:14px;max-width:34ch">Design beyond code. A free, open source, local-first creative studio. Currently in beta.</p>
+</div>
+<div>
+<h2>Project</h2>
+<ul>
+<li><a href="https://github.com/philppplik/somnia" rel="noopener">GitHub</a></li>
+<li><a href="https://github.com/philppplik/somnia/releases" rel="noopener">Releases</a></li>
+<li><a href="https://github.com/philppplik/somnia/blob/main/CHANGELOG.md" rel="noopener">Changelog</a></li>
+<li><a href="https://github.com/users/philppplik/projects/2" rel="noopener">Roadmap board</a></li>
+<li><a href="https://github.com/philppplik/somnia/issues" rel="noopener">Issues</a></li>
+</ul>
+</div>
+<div>
+<h2>Legal</h2>
+<ul>
+<li><a href="https://github.com/philppplik/somnia/blob/main/LICENSE" rel="noopener">MIT license</a></li>
+<li><a href="../privacy/">Privacy policy</a></li>
+<li><a href="../datenschutz/">Datenschutzerkl&auml;rung</a></li>
+<li><a href="../impressum/">Impressum</a></li>
+<li><a href="https://github.com/philppplik/somnia/blob/main/SECURITY.md" rel="noopener">Security policy</a></li>
+</ul>
+</div>
+</div>
+<p class="legal">Somnia is free software under the MIT license, &copy; Philipp Paulik. This site sets no cookies, uses no analytics and loads no third-party scripts or fonts. Its download list makes one request to the public GitHub API from your browser.</p>
+</div>
+</footer>
+<script src="../assets/js/site.js" defer></script>
+</body>
+</html>

diff --git a/index.html b/index.html
@@ -22,7 +22,7 @@
 <meta property="og:image" content="https://somnia.philipp-paulik.de/assets/og/launch-card.png">
 <meta property="og:image:width" content="1200">
 <meta property="og:image:height" content="675">
-<meta property="og:image:alt" content="Somnia 12, free beta. One app for the whole creative job.">
+<meta property="og:image:alt" content="Somnia, free and open source beta. One app for the whole creative job.">
 <meta name="twitter:card" content="summary_large_image">
 <meta name="twitter:title" content="Somnia - Design beyond code. The local-first creative studio">
 <meta name="twitter:description" content="Somnia is a free, open source, local-first creative studio. Your canvas, your code, your files. Beta for Windows, macOS and Linux. No account, no telemetry. MIT licensed.">
@@ -328,6 +328,7 @@
 <li><a href="https://github.com/philppplik/somnia/blob/main/LICENSE" rel="noopener">MIT license</a></li>
 <li><a href="privacy/">Privacy policy</a></li>
 <li><a href="datenschutz/">Datenschutzerkl&auml;rung</a></li>
+<li><a href="impressum/">Impressum</a></li>
 <li><a href="https://github.com/philppplik/somnia/blob/main/SECURITY.md" rel="noopener">Security policy</a></li>
 </ul>
 </div>

diff --git a/404.html b/404.html
@@ -23,7 +23,7 @@
 <meta property="og:image" content="https://somnia.philipp-paulik.de/assets/og/launch-card.png">
 <meta property="og:image:width" content="1200">
 <meta property="og:image:height" content="675">
-<meta property="og:image:alt" content="Somnia 12, free beta. One app for the whole creative job.">
+<meta property="og:image:alt" content="Somnia, free and open source beta. One app for the whole creative job.">
 <meta name="twitter:card" content="summary_large_image">
 <meta name="twitter:title" content="Page not found - Somnia">
 <meta name="twitter:description" content="This page does not exist.">
@@ -74,6 +74,7 @@
 <li><a href="https://github.com/philppplik/somnia/blob/main/LICENSE" rel="noopener">MIT license</a></li>
 <li><a href="/privacy/">Privacy policy</a></li>
 <li><a href="/datenschutz/">Datenschutzerkl&auml;rung</a></li>
+<li><a href="/impressum/">Impressum</a></li>
 <li><a href="https://github.com/philppplik/somnia/blob/main/SECURITY.md" rel="noopener">Security policy</a></li>
 </ul>
 </div>
